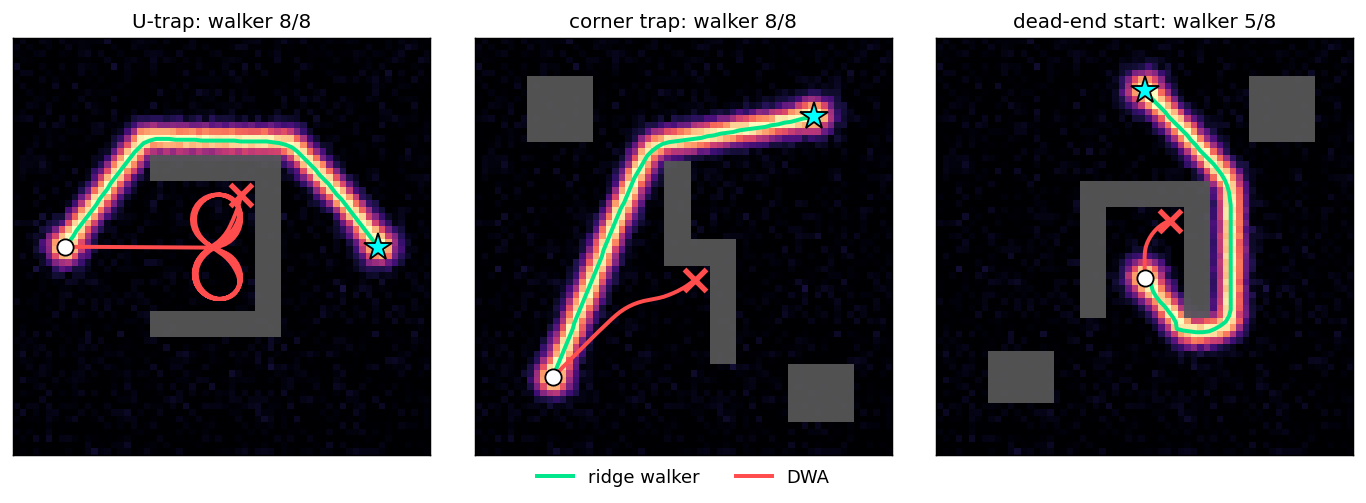
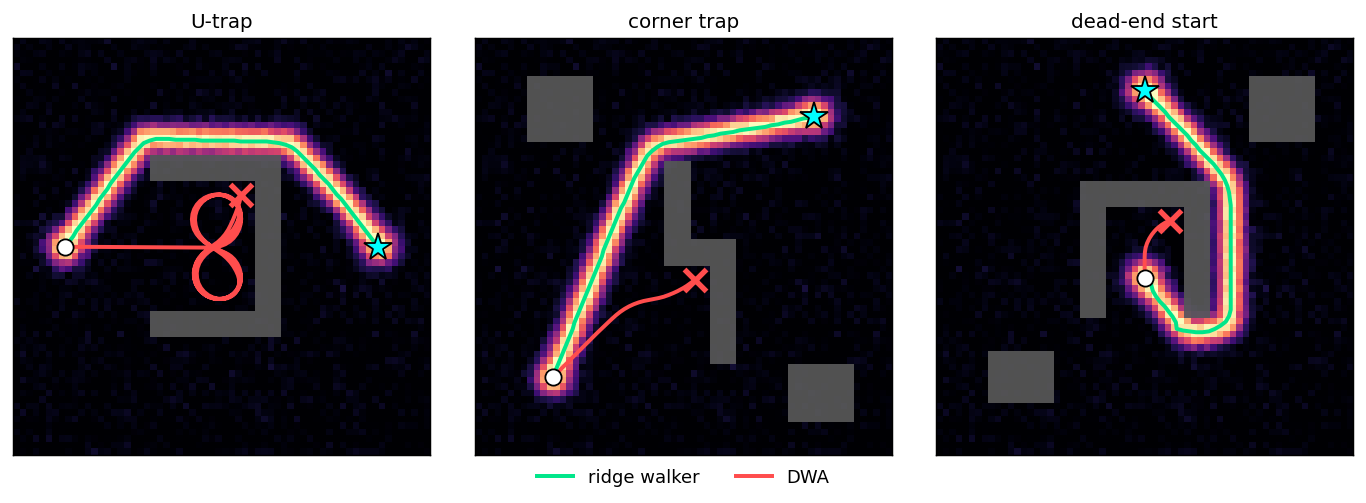
Drop per-scene success counts from the trap figure

Changed region(s): [[0.7379, 0.0298, 0.9531, 0.0596], [0.3997, 0.0298, 0.5842, 0.0596], [0.0922, 0.0298, 0.246, 0.0596]]

diff --git a/examples/demo.py b/examples/demo.py
@@ -48,7 +48,7 @@ def main() -> None:
         shown = int(solved[0]) if len(solved) else 0
         panels.append(
             Panel(
-                f"{name}: walker {len(solved)}/{args.samples}",
+                name,
                 world,
                 heatmaps[shown],
                 walker=(ours.paths[shown], bool(ours.reached[shown])),

diff --git a/README.md b/README.md
@@ -9,7 +9,6 @@ ends that trap a classic DWA.
 
 The same maps given to a classic DWA (red). DWA only knows the direction to the goal, so it
 drives into the pocket and circles there. The walker (green) follows the route the model drew.
-The count in each title is how many of 8 sampled ridges the walker completed.
 
 ## Method
 
